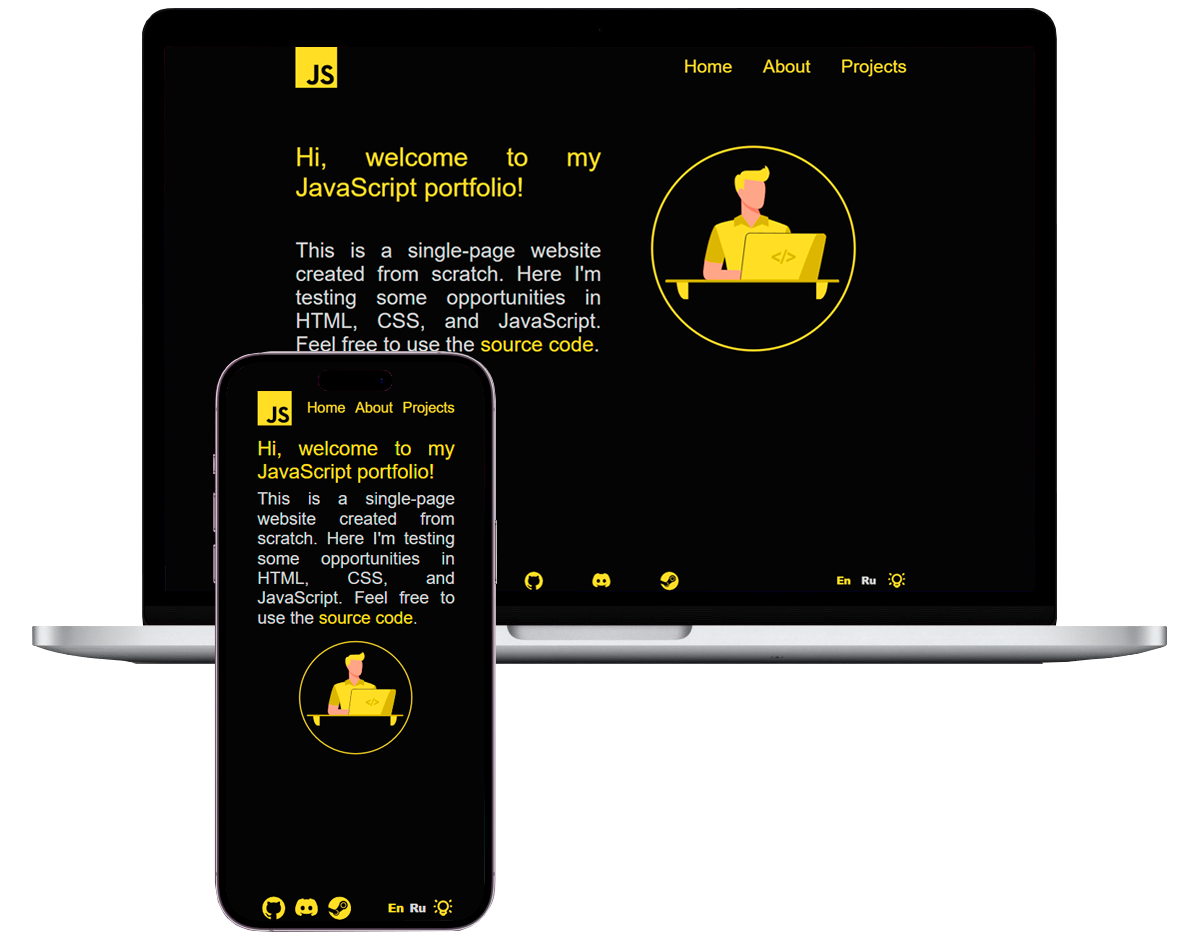
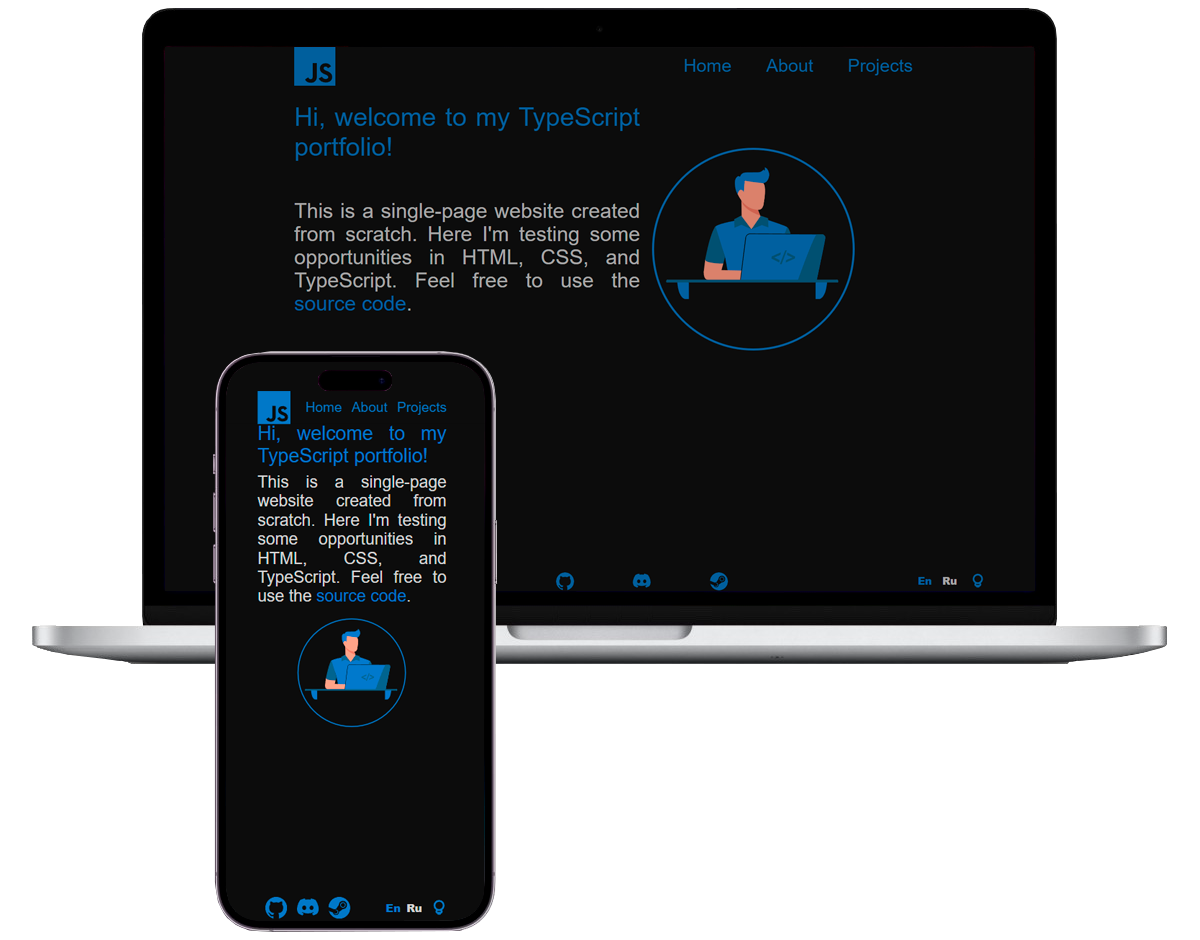
Changed theme

diff --git a/scripts/pages.ts b/scripts/pages.ts
@@ -50,7 +50,7 @@ export const changeContainer = (page: string): void => {
 };
 
 export const Home = (): void => {
-  document.title = "JS | Home";
+  document.title = "TS | Home";
 
   const container = createContainer();
 
@@ -73,16 +73,14 @@ export const Home = (): void => {
 
   const landing = <HTMLImageElement>addElement("img", containerRight);
   landing.className = "landing";
-  landing.src = localStorage.getItem("theme") === "On"
-    ? "./assets/landing-on.svg"
-    : "./assets/landing-off.svg";
+  landing.src = "./assets/landing.svg";
 
   setLanguage();
   setTheme();
 };
 
 export const About = (): void => {
-  document.title = "JS | About";
+  document.title = "TS | About";
 
   const container = createContainer();
 
@@ -98,6 +96,7 @@ export const About = (): void => {
   const aboutHeader1 = addElement("font", container);
   aboutHeader1.className = "font-header";
   aboutHeader1.style.textAlign = "center";
+  aboutHeader1.style.marginTop = "40px";
   aboutHeader1.setAttribute("t", "about.skillset");
 
   const containerFlex = addElement("div", container);
@@ -114,7 +113,7 @@ export const About = (): void => {
 };
 
 export const Projects = (): void => {
-  document.title = "JS | Projects";
+  document.title = "TS | Projects";
 
   const container = createContainer();
 

diff --git a/scripts/projects.ts b/scripts/projects.ts
@@ -2,7 +2,7 @@ import { createContainer, addElement, addImg, setLanguage, setTheme }
   from "./utils.js";
 
 export const Stalker = () => {
-  document.title = "JS | STALKER";
+  document.title = "TS | STALKER";
 
   const container = createContainer();
 
@@ -148,7 +148,7 @@ export const Stalker = () => {
 };
 
 export const Fallout = () => {
-  document.title = "JS | Fallout";
+  document.title = "TS | Fallout";
 
   const container = createContainer();
 
@@ -204,7 +204,7 @@ export const Fallout = () => {
 };
 
 export const MW = () => {
-  document.title = "JS | MW";
+  document.title = "TS | MW";
 
   const container = createContainer();
 
@@ -229,7 +229,7 @@ export const MW = () => {
 };
 
 export const Daynight = () => {
-  document.title = "JS | DayNight";
+  document.title = "TS | DayNight";
 
   const container = createContainer();
 

diff --git a/scripts/utils.ts b/scripts/utils.ts
@@ -164,21 +164,9 @@ export const paintFooter = (): void => {
 };
 
 export const setTheme = (): void => {
-  const url = new URL(document.location.href);
   const theme = localStorage.getItem("theme") === "On" 
     ? themes.on 
     : themes.off;
-  const img = localStorage.getItem("theme") === "On"
-    ? "./assets/landing-on.svg"
-    : "./assets/landing-off.svg";
-
-  if (url.search.substring(6) === "home") {
-    const landing = <HTMLImageElement>document.querySelector(".landing");
-
-    if (landing === null) return;
-
-    landing.src = img;
-  }
 
   document.documentElement.style.setProperty(
     "--main-color",
